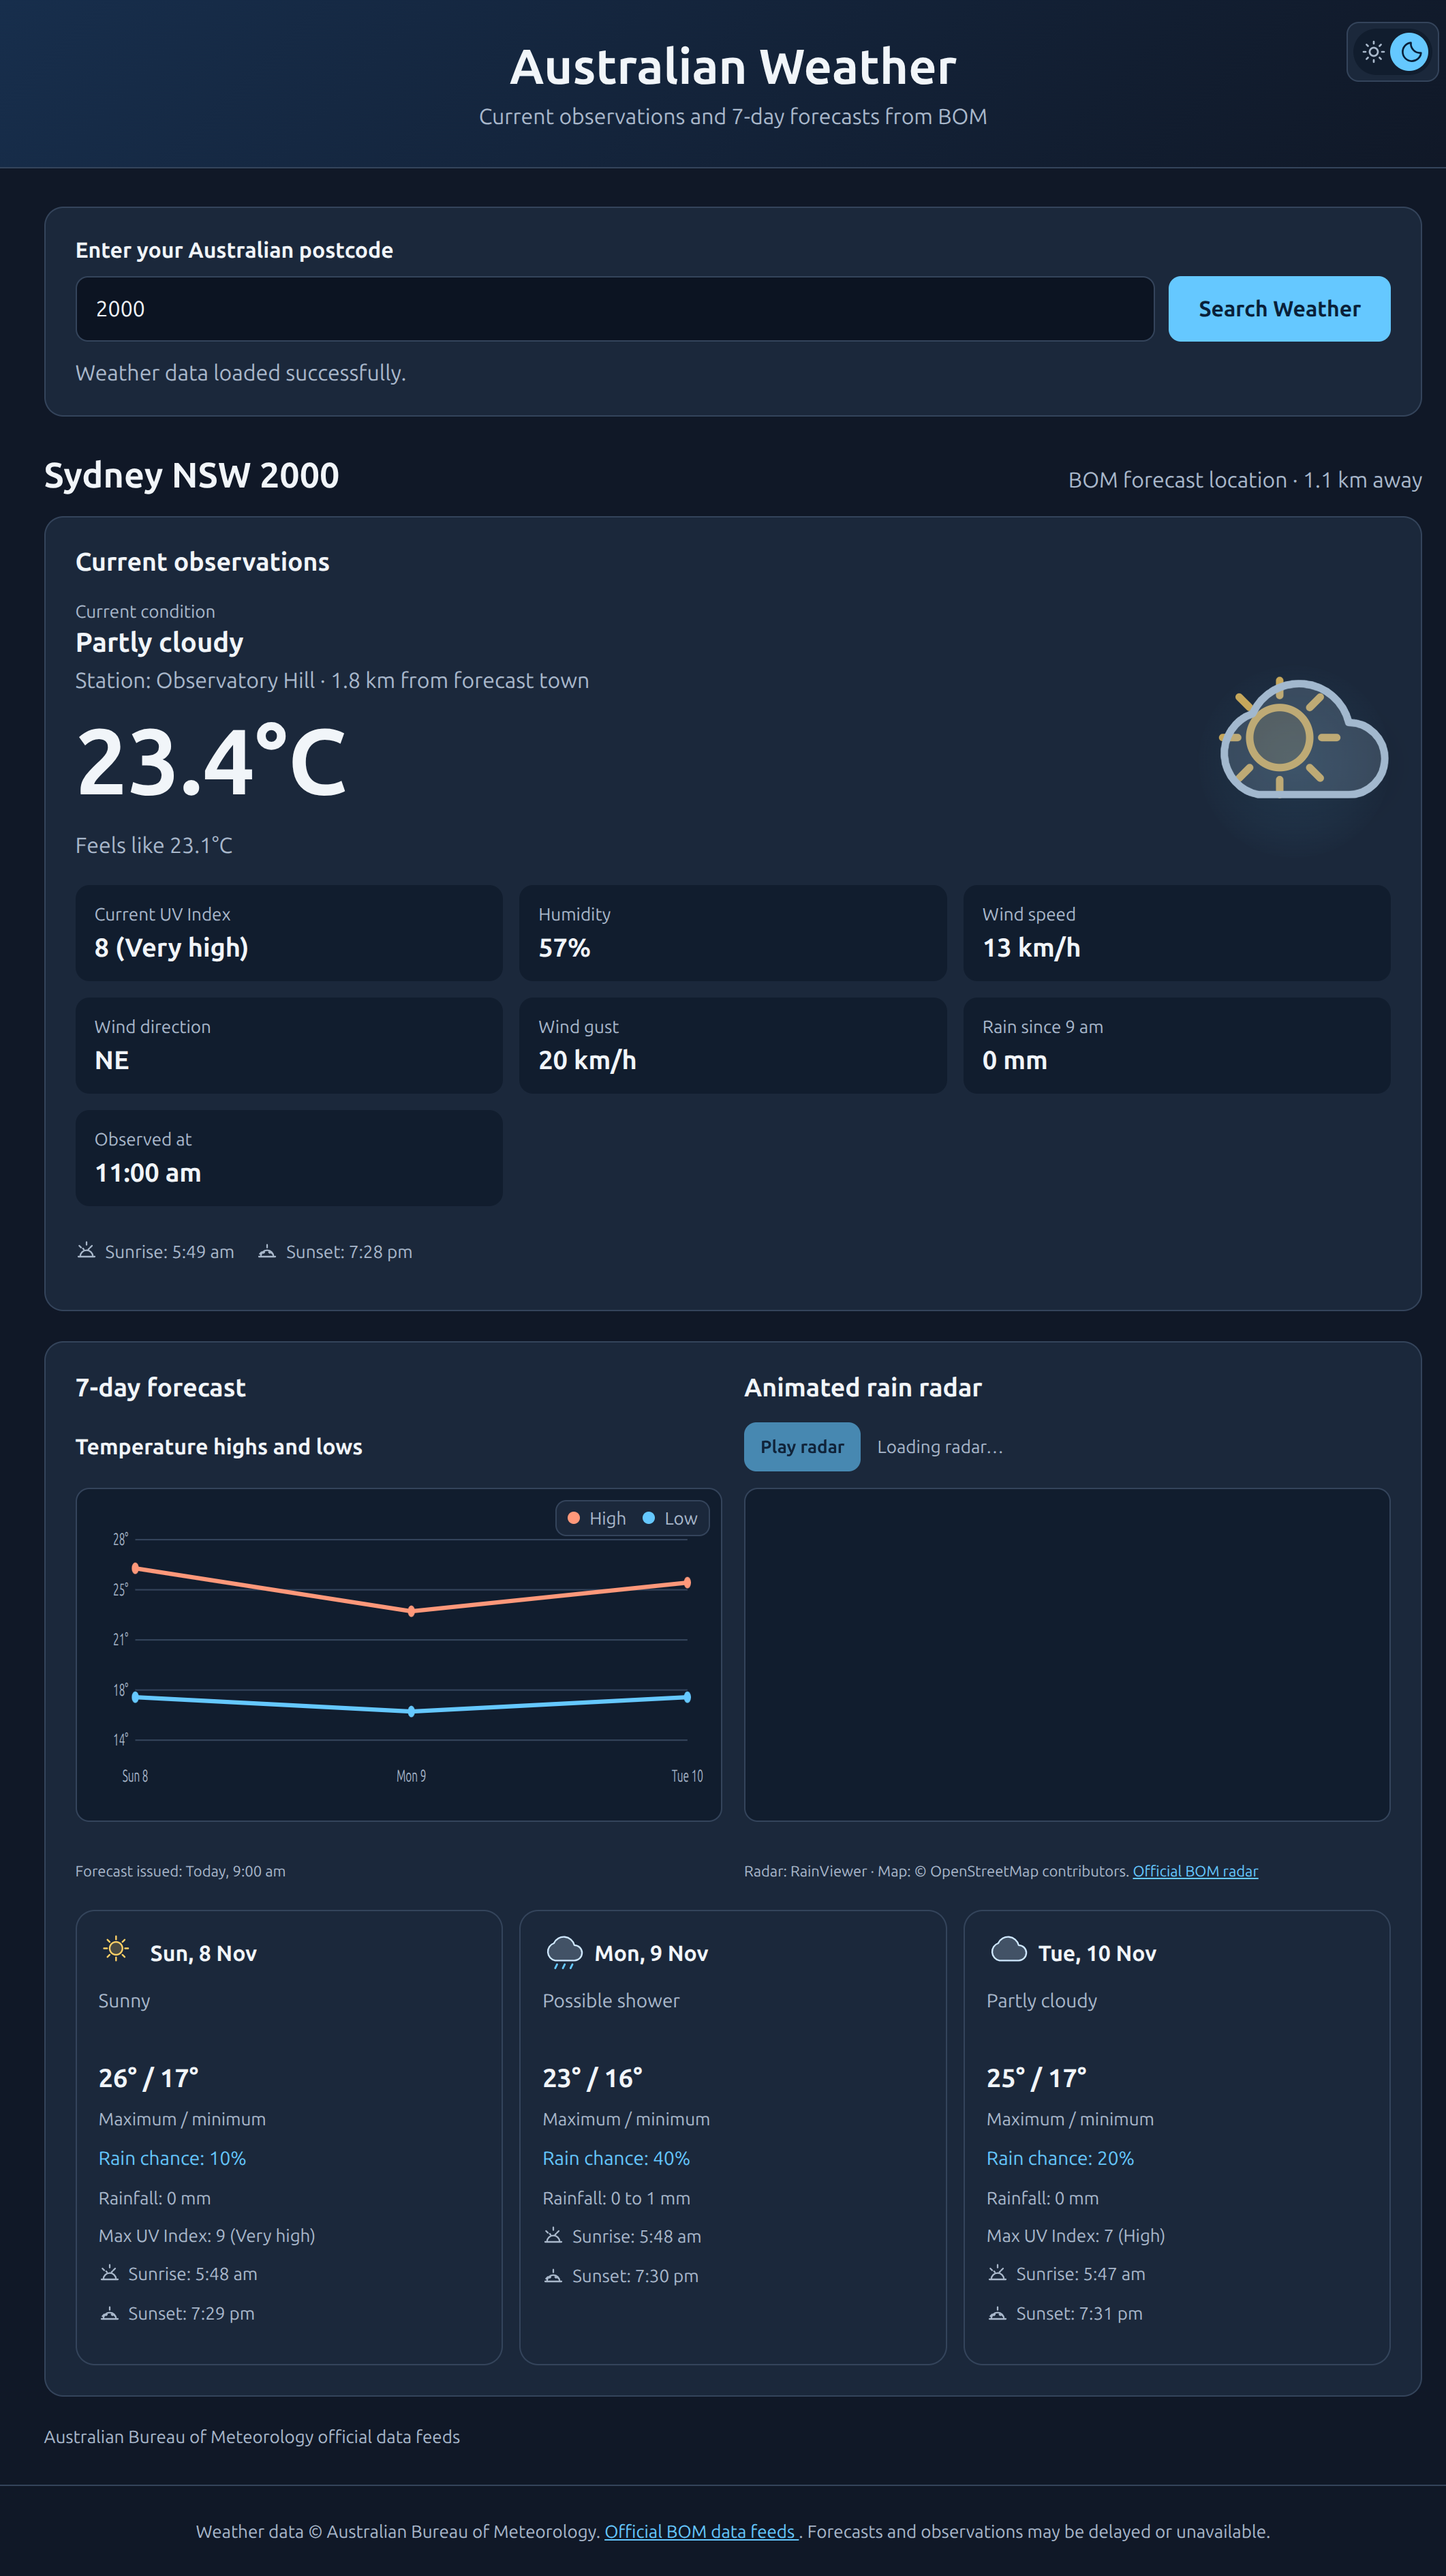
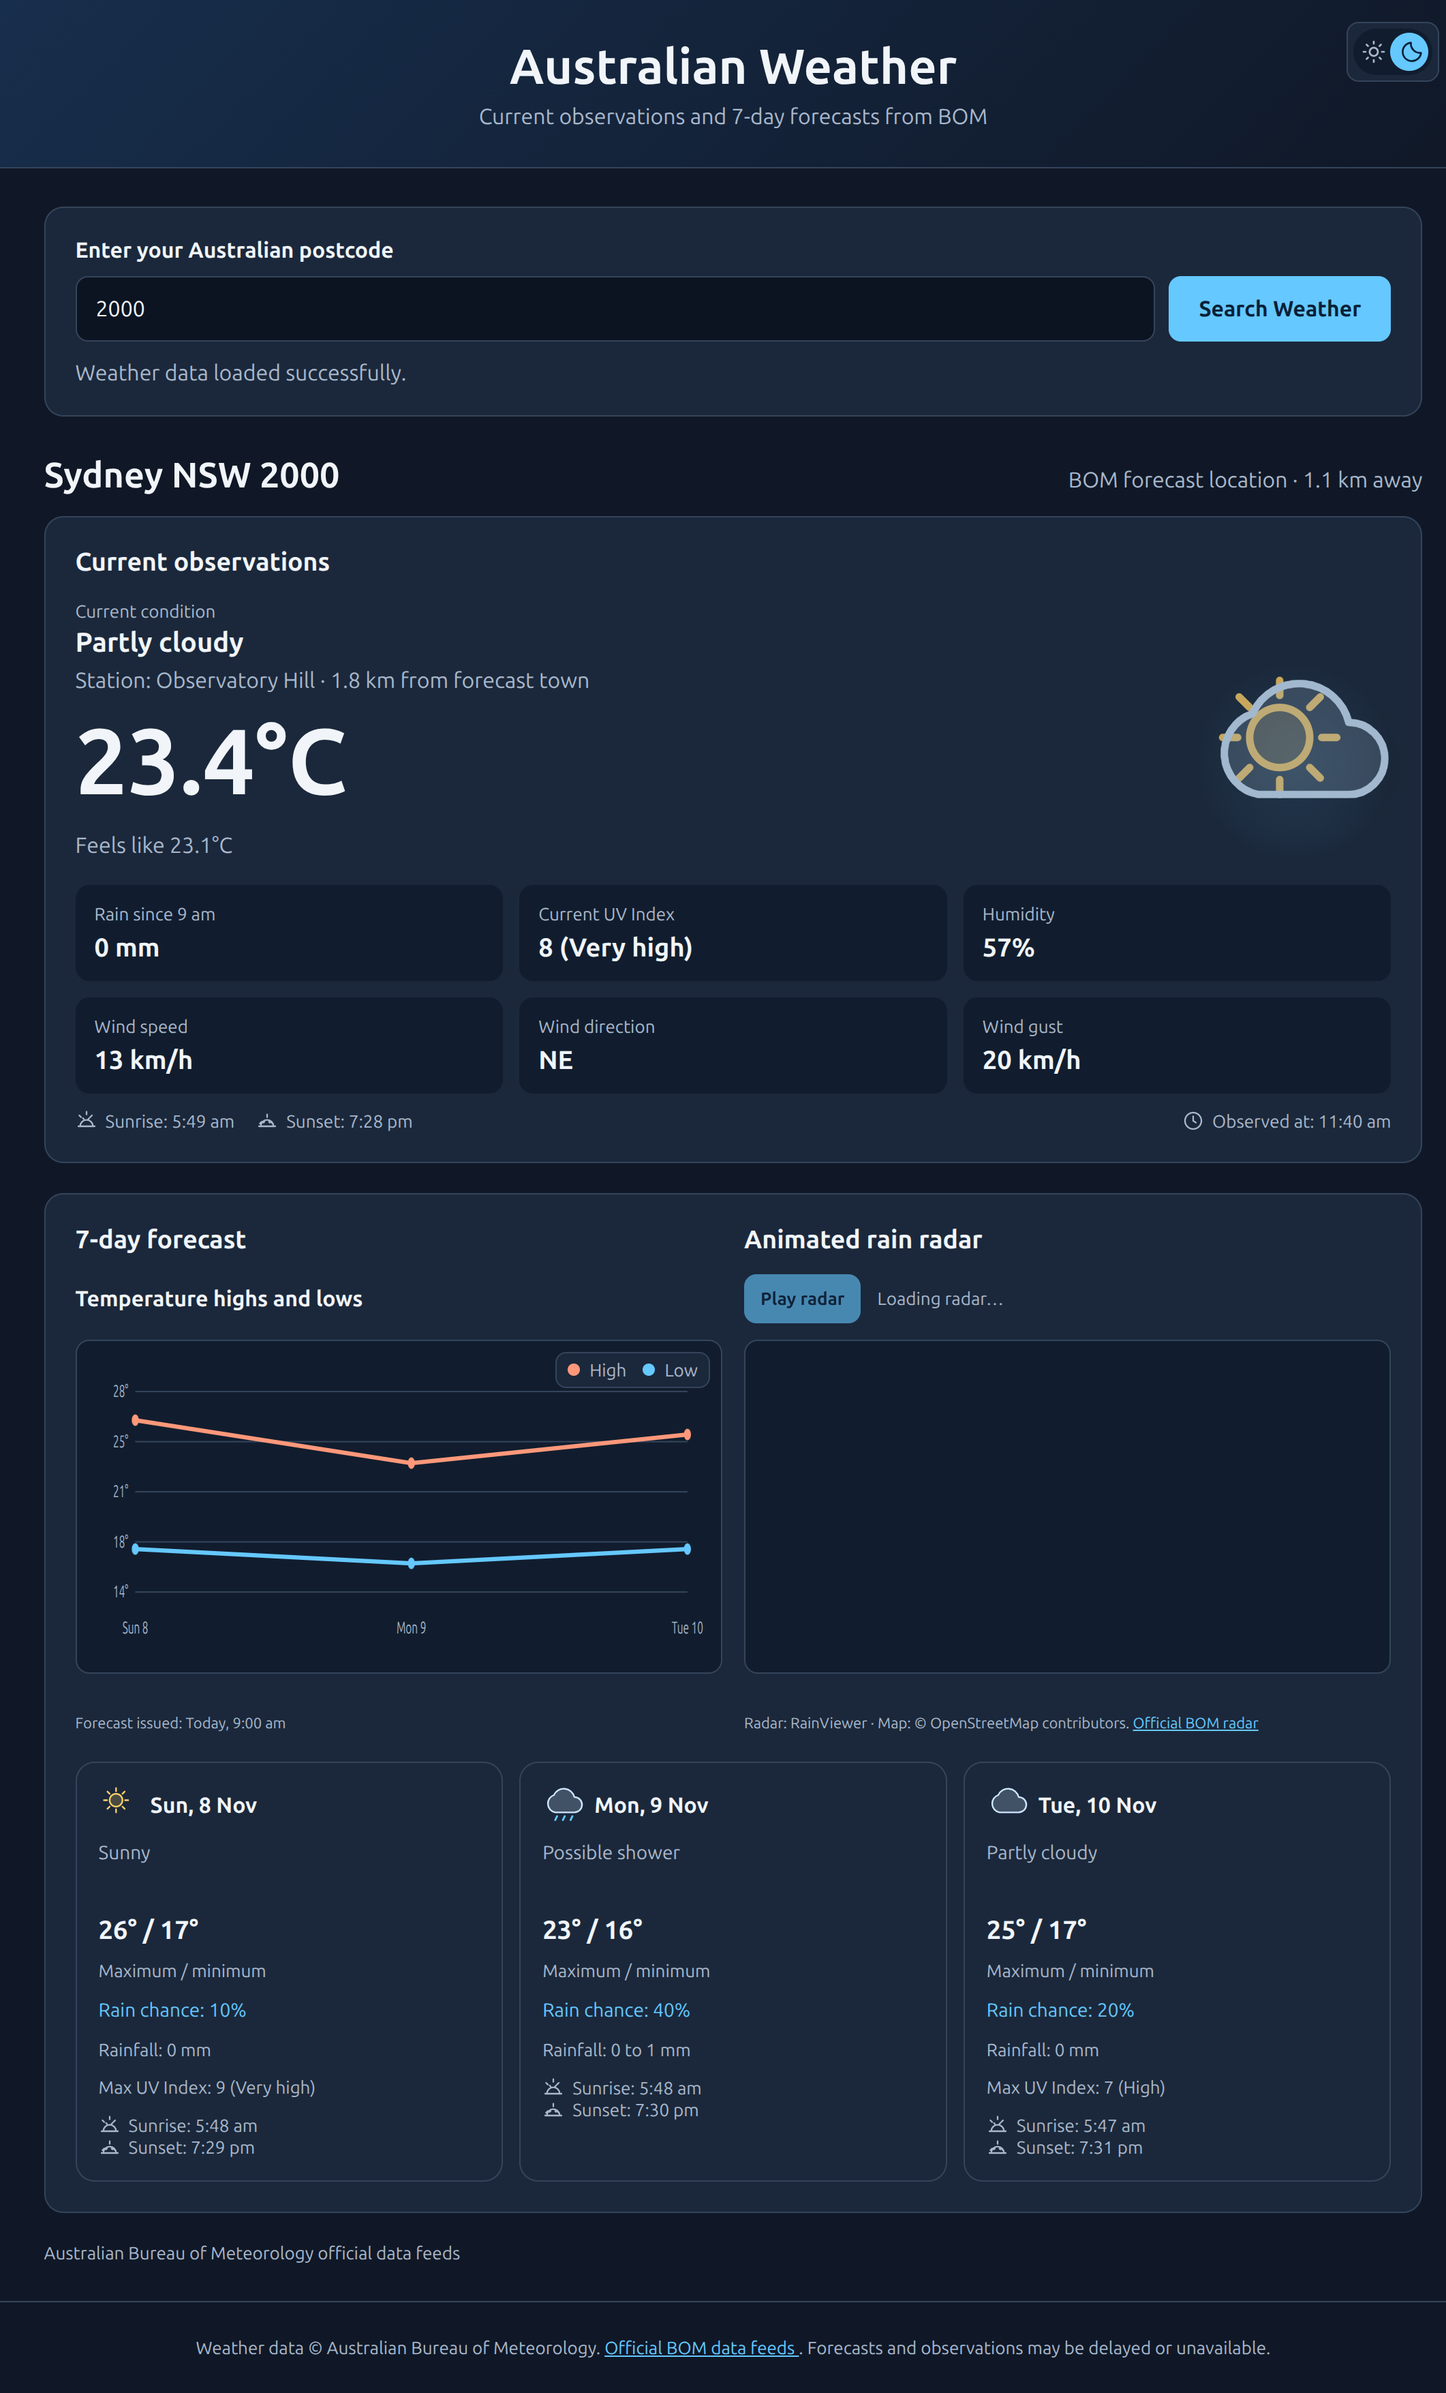
Update v1.1.4 current weather layout

diff --git a/app/static/index.html b/app/static/index.html
@@ -328,9 +328,14 @@
 
         .metrics {
             display: grid;
-            grid-template-columns: repeat(3, minmax(0, 1fr));
             gap: 12px;
             margin-top: 20px;
+        }
+
+        .metric-row {
+            display: grid;
+            grid-template-columns: repeat(3, minmax(0, 1fr));
+            gap: 12px;
         }
 
         .metric {
@@ -555,8 +560,26 @@
         .sun-times {
             display: flex;
             flex-wrap: wrap;
+            align-items: center;
+            justify-content: space-between;
             gap: 4px 16px;
             margin-top: 12px;
+        }
+
+        .sun-time-group {
+            display: flex;
+            flex-wrap: wrap;
+            gap: 4px 16px;
+        }
+
+        .sun-time,
+        .observed-time {
+            margin: 0;
+        }
+
+        .observed-time {
+            margin-left: auto;
+            text-align: right;
         }
 
         .sun-time-icon {
@@ -585,7 +608,7 @@
             .forecast-visuals { grid-template-columns: 1fr; }
             .forecast-visual-footer { grid-template-columns: 1fr; }
             .forecast-grid { grid-template-columns: repeat(2, minmax(0, 1fr)); }
-            .metrics { grid-template-columns: repeat(2, minmax(0, 1fr)); }
+            .metric-row { grid-template-columns: repeat(2, minmax(0, 1fr)); }
         }
 
         @media (max-width: 420px) {
@@ -593,7 +616,7 @@
             .theme-control { top: 14px; right: 14px; }
             .search-row { flex-direction: column; }
             .forecast-grid { grid-template-columns: 1fr; }
-            .metrics { grid-template-columns: 1fr 1fr; }
+            .metric-row { grid-template-columns: 1fr 1fr; }
         }
     </style>
 </head>
@@ -1220,6 +1243,15 @@
                     Sunset: ${formatTime(sunset, timeZone)}
                 </p>
             ` : ""}`;
+        const observedTime = observation?.observed_at ? `
+            <p class="small sun-time observed-time">
+                <svg class="sun-time-icon" viewBox="0 0 24 24" aria-hidden="true">
+                    <circle cx="12" cy="12" r="9"/>
+                    <path d="M12 7v5l3 2"/>
+                </svg>
+                Observed at: ${formatTime(observation.observed_at, timeZone)}
+            </p>
+        ` : "";
 
         if (!observation) {
             target.innerHTML = `
@@ -1228,7 +1260,11 @@
                 <p class="small">
                     The seven-day forecast may still be available.
                 </p>
-                ${sunrise || sunset ? `<div class="sun-times">${sunTimes}</div>` : ""}
+                ${sunrise || sunset ? `
+                    <div class="sun-times">
+                        <div class="sun-time-group">${sunTimes}</div>
+                    </div>
+                ` : ""}
                 ${uvMetric ? `<div class="metrics">${uvMetric}</div>` : ""}`;
             return;
         }
@@ -1237,15 +1273,23 @@
             ${currentConditionMarkup(condition, observation)}
 
             <div class="metrics">
-                ${uvMetric}
-                ${metric("Humidity", observation.humidity, "%")}
-                ${metric("Wind speed", observation.wind_speed, " km/h")}
-                ${metric("Wind direction", observation.wind_direction)}
-                ${metric("Wind gust", observation.wind_gust, " km/h")}
-                ${metric("Rain since 9 am", observation.rain_since_9am, " mm")}
-                ${metric("Observed at", observation.observed_at)}
+                <div class="metric-row">
+                    ${metric("Rain since 9 am", observation.rain_since_9am, " mm")}
+                    ${uvMetric}
+                    ${metric("Humidity", observation.humidity, "%")}
+                </div>
+                <div class="metric-row">
+                    ${metric("Wind speed", observation.wind_speed, " km/h")}
+                    ${metric("Wind direction", observation.wind_direction)}
+                    ${metric("Wind gust", observation.wind_gust, " km/h")}
+                </div>
             </div>
-            ${sunrise || sunset ? `<div class="sun-times">${sunTimes}</div>` : ""}`;
+            ${sunrise || sunset || observedTime ? `
+                <div class="sun-times">
+                    <div class="sun-time-group">${sunTimes}</div>
+                    ${observedTime}
+                </div>
+            ` : ""}`;
     }
 
     function renderForecast(days, timeZone) {
